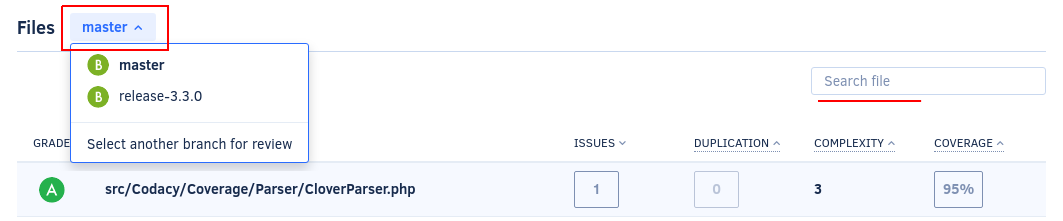
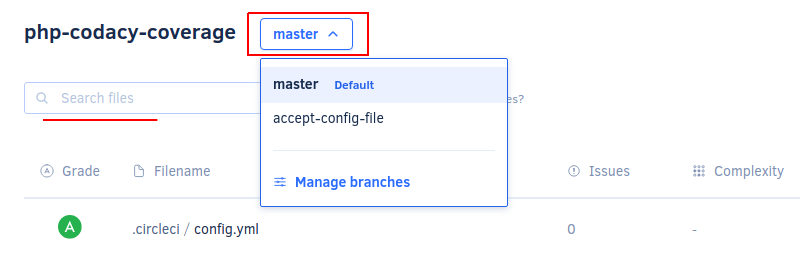
clean: Update Files page after migration to React CY-5028 (#873)
* clean: Remove mention to sorting columns in Files page

* feature: Update screenshots for updated Files page

* feature: Update screenshots with final versions including coverage

* clean: Mention info in the same order as the table columns

diff --git a/docs/repositories/files.md b/docs/repositories/files.md
@@ -6,11 +6,13 @@ Codacy displays the following information for each file, if available:
 
 -   Grade
 -   Number of issues
--   Duplication
 -   Complexity
+-   Duplication
 -   Code coverage
 
+<!--NOTE Removed in CY-5028 >
 You can sort the list by each column to help you identify which files you should improve or refactor next.
+--->
 
 ![Files list](images/files.png)
 
